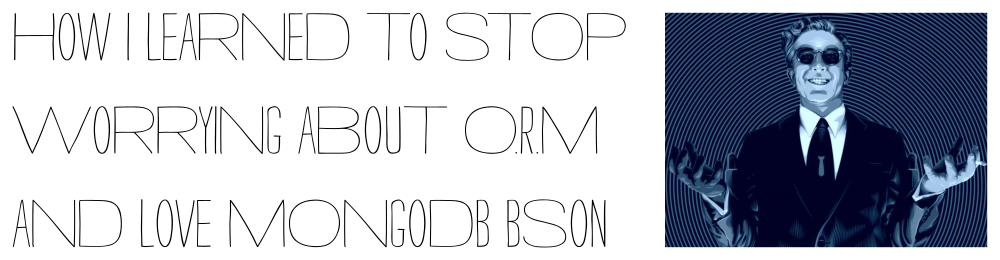
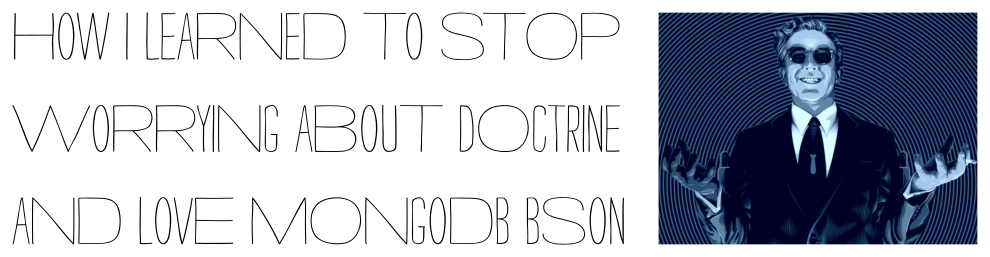
global refactor and doc

diff --git a/tests/Type/BsonDateTimeTest.php b/tests/Type/BsonDateTimeTest.php
@@ -4,14 +4,17 @@
  * Strangelove
  */
 
-class BsonDateTimeTest extends \PHPUnit\Framework\TestCase
+use PHPUnit\Framework\TestCase;
+use Trismegiste\Strangelove\Type\BsonDateTime;
+
+class BsonDateTimeTest extends TestCase
 {
 
     protected $sut;
 
     protected function setUp(): void
     {
-        $this->sut = new Trismegiste\Strangelove\MongoDb\Type\BsonDateTime('2022-04-01 12:34:56', new DateTimeZone('Asia/Tokyo'));
+        $this->sut = new BsonDateTime('2022-04-01 12:34:56', new DateTimeZone('Asia/Tokyo'));
     }
 
     public function testSerialize()
@@ -26,6 +29,7 @@ class BsonDateTimeTest extends \PHPUnit\Framework\TestCase
     public function testUnserialize(string $json)
     {
         $obj = \MongoDB\BSON\toPHP(MongoDB\BSON\fromJSON($json));
+        $this->assertInstanceOf(BsonDateTime::class, $obj);
         $this->assertEquals('2022-04-01T12:34:56+09:00', $obj->format(DateTime::ATOM));
     }
 

diff --git a/tests/Type/BsonFixedArrayTest.php b/tests/Type/BsonFixedArrayTest.php
@@ -4,14 +4,17 @@
  * Strangelove
  */
 
-class BsonFixedArrayTest extends \PHPUnit\Framework\TestCase
+use PHPUnit\Framework\TestCase;
+use Trismegiste\Strangelove\Type\BsonFixedArray;
+
+class BsonFixedArrayTest extends TestCase
 {
 
     protected $sut;
 
     protected function setUp(): void
     {
-        $this->sut = new \Trismegiste\Strangelove\MongoDb\Type\BsonFixedArray();
+        $this->sut = new BsonFixedArray();
     }
 
     public function testEmpty()
@@ -35,6 +38,7 @@ class BsonFixedArrayTest extends \PHPUnit\Framework\TestCase
     {
         $obj = \MongoDB\BSON\toPHP(MongoDB\BSON\fromJSON($json));
 
+        $this->assertInstanceOf(SplFixedArray::class, $obj);
         $this->assertCount(256, $obj);
         $this->assertEquals(6.62, $obj[255]);
     }

diff --git a/tests/Type/BsonObjectStorageTest.php b/tests/Type/BsonObjectStorageTest.php
@@ -1,12 +1,12 @@
 <?php
 
-use PHPUnit\Framework\TestCase;
-use Trismegiste\Strangelove\MongoDb\Type\BsonDateTime;
-use Trismegiste\Strangelove\MongoDb\Type\BsonObjectStorage;
-
 /*
  * Strangelove
  */
+
+use PHPUnit\Framework\TestCase;
+use Trismegiste\Strangelove\Type\BsonDateTime;
+use Trismegiste\Strangelove\Type\BsonObjectStorage;
 
 class BsonObjectStorageTest extends TestCase
 {
@@ -47,6 +47,7 @@ class BsonObjectStorageTest extends TestCase
     {
         $obj = \MongoDB\BSON\toPHP(MongoDB\BSON\fromJSON($json));
 
+        $this->assertInstanceOf(SplObjectStorage::class, $obj);
         $this->assertCount(1, $obj);
         $obj->rewind();
         $this->assertInstanceOf(stdClass::class, $obj->current());

diff --git a/tests/MongoDb/PersistableImplTest.php b/tests/MongoDb/PersistableImplTest.php
@@ -13,8 +13,7 @@ use Tests\Fixtures\Nucleus;
 use Tests\Fixtures\Quark;
 use Tests\Fixtures\Vector;
 use Tests\Strangelove\MongoDb\MongoTestable;
-use Trismegiste\Strangelove\MongoDb\Type\BsonDateTime;
-use Trismegiste\Strangelove\MongoDb\Type\MongoDateTime;
+use Trismegiste\Strangelove\Type\BsonDateTime;
 
 class PersistableImplTest extends MongoTestable
 {

diff --git a/src/Form/DateMongoTransformer.php b/src/Form/DateMongoTransformer.php
@@ -4,10 +4,10 @@
  * Strangelove
  */
 
-namespace Trismegiste\Strangelove\MongoDb\Form;
+namespace Trismegiste\Strangelove\Form;
 
 use Symfony\Component\Form\DataTransformerInterface;
-use Trismegiste\Strangelove\MongoDb\Type\BsonDateTime;
+use Trismegiste\Strangelove\Type\BsonDateTime;
 
 /**
  * Transform a PHP DateTime into BsonDateTime

diff --git a/tests/Form/BsonDateTypeTest.php b/tests/Form/BsonDateTypeTest.php
@@ -1,8 +1,8 @@
 <?php
 
 use Symfony\Component\Form\Test\TypeTestCase;
-use Trismegiste\Strangelove\MongoDb\Form\BsonDateType;
-use Trismegiste\Strangelove\MongoDb\Type\BsonDateTime;
+use Trismegiste\Strangelove\Form\BsonDateType;
+use Trismegiste\Strangelove\Type\BsonDateTime;
 
 class BsonDateTypeTest extends TypeTestCase
 {

diff --git a/src/Form/BsonDateType.php b/src/Form/BsonDateType.php
@@ -4,7 +4,7 @@
  * Strangelove
  */
 
-namespace Trismegiste\Strangelove\MongoDb\Form;
+namespace Trismegiste\Strangelove\Form;
 
 use Symfony\Component\Form\AbstractType;
 use Symfony\Component\Form\Extension\Core\Type\DateType;

diff --git a/src/Type/BsonDateTime.php b/src/Type/BsonDateTime.php
@@ -4,7 +4,7 @@
  * Strangelove
  */
 
-namespace Trismegiste\Strangelove\MongoDb\Type;
+namespace Trismegiste\Strangelove\Type;
 
 use MongoDB\BSON\Persistable;
 use MongoDB\BSON\UTCDateTime;

diff --git a/src/Type/BsonObjectStorage.php b/src/Type/BsonObjectStorage.php
@@ -4,7 +4,7 @@
  * Strangelove
  */
 
-namespace Trismegiste\Strangelove\MongoDb\Type;
+namespace Trismegiste\Strangelove\Type;
 
 /**
  * This is a SplObjectStorage with BSON capabilities

diff --git a/src/Type/BsonFixedArray.php b/src/Type/BsonFixedArray.php
@@ -4,7 +4,7 @@
  * Strangelove
  */
 
-namespace Trismegiste\Strangelove\MongoDb\Type;
+namespace Trismegiste\Strangelove\Type;
 
 /**
  * This is a SplFixedArray with BSON capabilities

diff --git a/README.md b/README.md
@@ -1,8 +1,8 @@
 # Strangelove
 
-![How I Learned to Stop Worrying about ORM and Love MongoDb BSON](https://github.com/Trismegiste/toolbox/blob/bundle/docs/strangelove-title.png)
+![How I Learned to Stop Worrying about Doctrine and Love MongoDb BSON](https://github.com/Trismegiste/toolbox/blob/bundle/docs/strangelove-title.png)
 
-A symfony bundle for stopping the chase after the mythical object-database, or its fake approximation a.k.a ORM.
+A symfony bundle for stopping the chase after the mythical object-database, or its fake approximation a.k.a Doctrine.
 
 ## MongoDb
 A almost-zero-config Object Data Mapper for MongoDB. It's a micro database layer with 
@@ -29,7 +29,7 @@ strangelove:
 Create a subclass of ```Trismegiste\Strangelove\MongoDb\DefaultRepository``` and extend it with business features.
 
 ### Register the service
-Into ```services.yaml```, just add :
+To register the repository class MyMovies on the collection 'movies' into the ```services.yaml``` config file, just add :
 ```yaml
     App\Repository\MyMovies:
         $collectionName: movies
@@ -43,7 +43,7 @@ Every object has to implement one interface and use one trait :
 
 ```php
 class MyEntity implements \MongoDB\BSON\Persistable {
-    use \Trismegiste\Toolbox\MongoDb\PersistableImpl;
+    use \Trismegiste\Strangelove\MongoDb\PersistableImpl;
 }
 ```
 
@@ -51,8 +51,8 @@ The "top document" or the "root document", meaning the one who owns the primary 
 implement the interface Root and use the trait RootImpl.
 
 ```php
-class MyDocument implements \Trismegiste\Toolbox\MongoDb\Root {
-    use \Trismegiste\Toolbox\MongoDb\RootImpl;
+class MyDocument implements \Trismegiste\Strangelove\MongoDb\Root {
+    use \Trismegiste\Strangelove\MongoDb\RootImpl;
 }
 ```
 
@@ -66,7 +66,7 @@ Please read the documentation about BSON serialization in MongoDB to know
 more : [The MongoDB\BSON\Persistable interface](https://www.php.net/manual/en/class.mongodb-bson-persistable.php)
 
 ## Repositories
-There is a default repository against a collection : DefaultRepository.
+There is a default repository against a collection : ```DefaultRepository```.
 It implements the interface Repository. Read the phpdoc about it.
 
 ## Performance
@@ -75,36 +75,23 @@ And it takes about 1.8 seconds to load and hydrate.
 
 ## Internals
 This ODM fully relies on BSON API for MongoDB. Your objects can be anything you want : no annotation, 
-no constraint on constructor or extending some mandatory class. 
+no constraint on constructor or extending some mandatory concrete class. 
 Serialization and unserialization are made in the driver written in C, not PHP, that's why it is so fast.
 
 ## Tests
-This library is full tested with PHPUnit. Simply run 'vendor/bin/phpunit'
+This library is full tested with PHPUnit. Simply run :
+```bash
+$ vendor/bin/phpunit
+```
 
 A full functional test can be found in DefaultRepositoryTest.php.
 
 ## Iterator
-Currently, there is one Decorator for an Iterator object : ClosureDecorator. It is useful for decorating iterators 
+Currently, there is one Decorator for an Iterator object : ```ClosureDecorator```. It is useful for decorating iterators 
 on cursors created by MongoDB repositories (see above)
 
-## Useful functions
-
-* join_paths() : this function glues a set of a chunked paths and prevents "double-slashing" like "/home//mypath//myfile.php".
-
-```php
-$path = __DIR__ . '/../' . 'myfile.php'; 
-```
-
-becomes :
-
-```php
-$path = join_paths(__DIR__, '..', 'myfile.php');
-```
-
-You don't have to worry about trailing slash anymore. This function take any number of parameters.
-
 ## Code coverage
-Code coverage configurations are included in the phpunit.xml.
+Code coverage configurations are included in the ```phpunit.xml```.
 Just run :
 ```bash
 $ phpdbg -qrr vendor/bin/phpunit

diff --git a/docs/index.md b/docs/index.md
@@ -1,5 +1,5 @@
 # Strangelove
 
-## How I Learned to Stop Worrying about ORM and Love MongoDb BSON
+## How I Learned to Stop Worrying about Doctrine and Love MongoDb BSON
 
 
